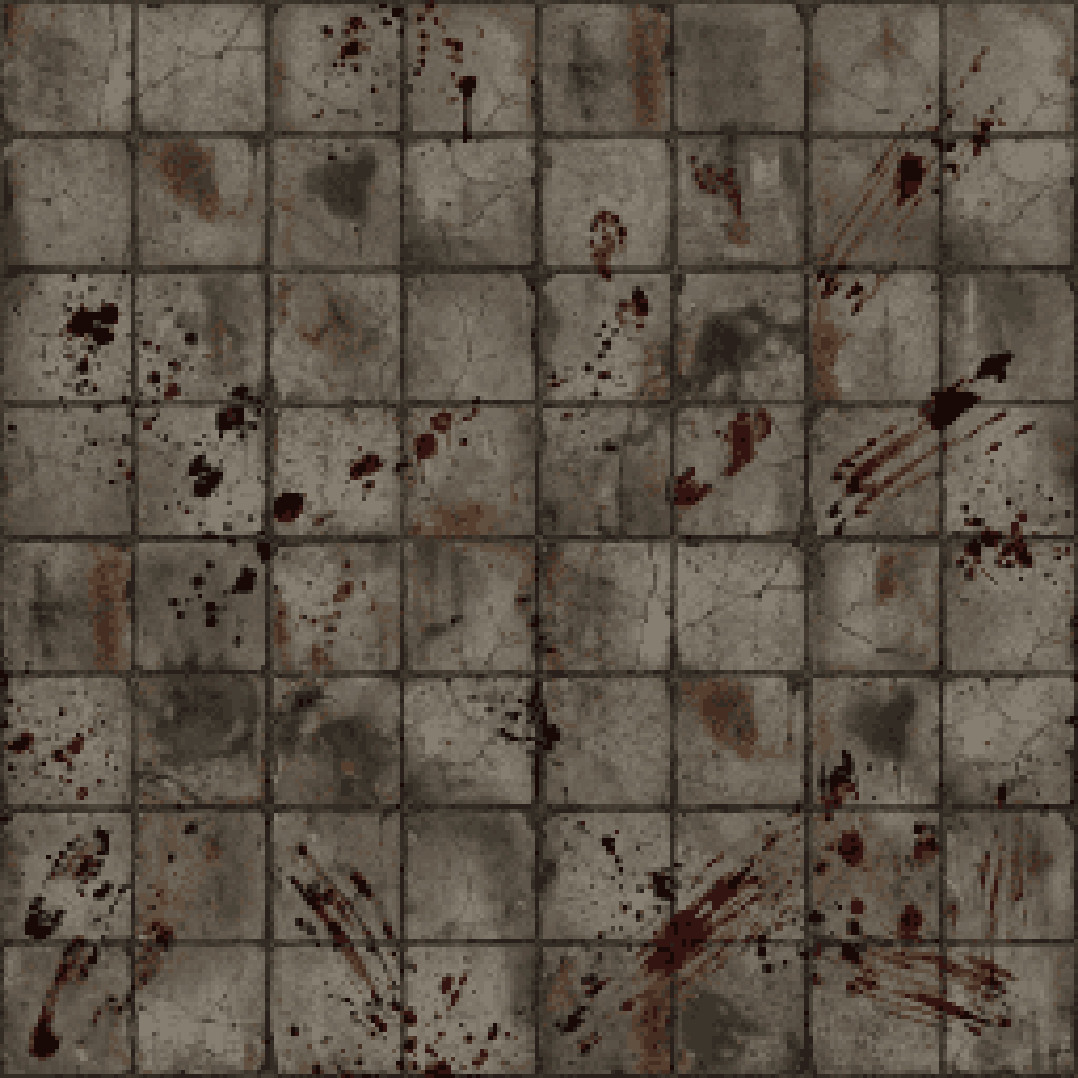
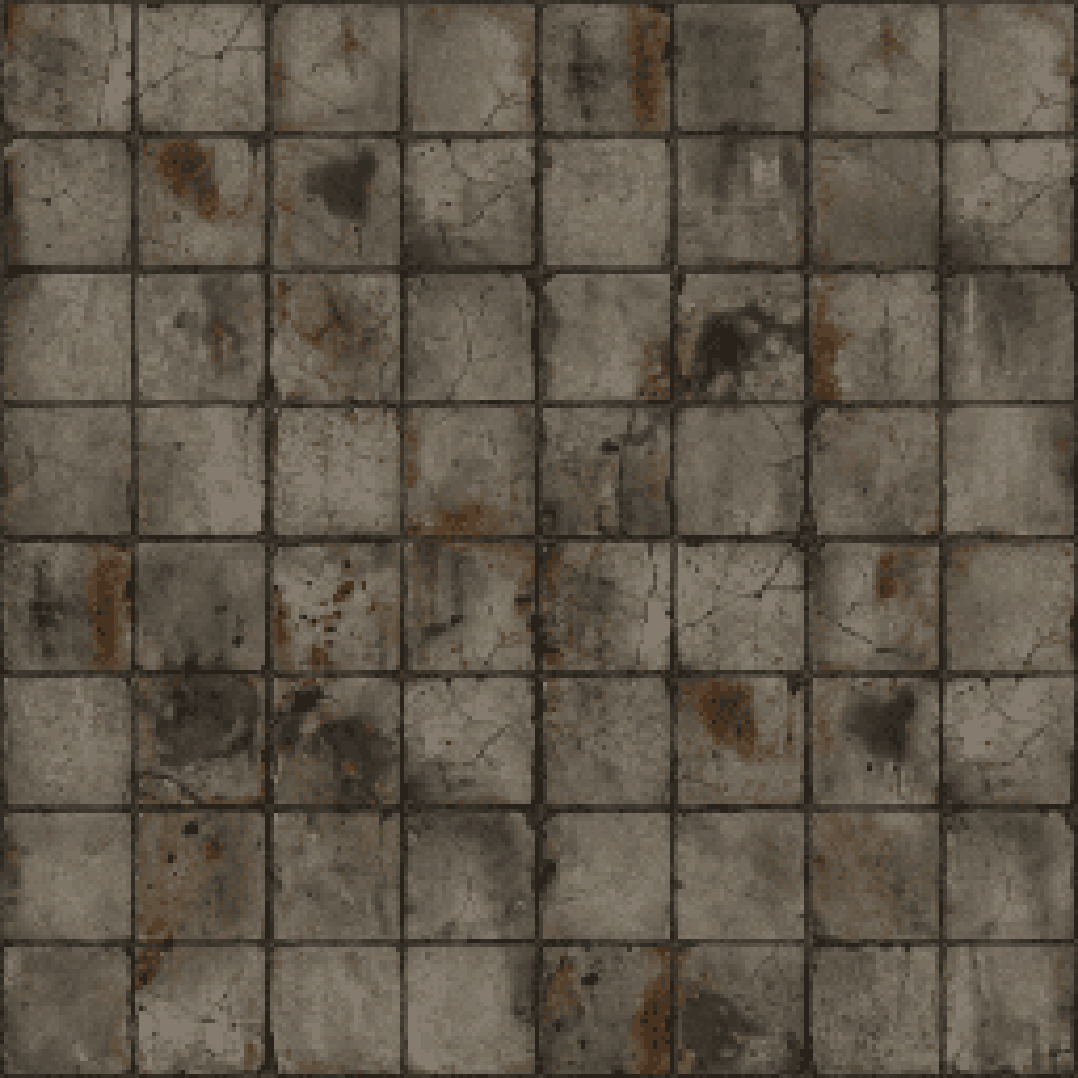
Sala de mantenimiento: suelo sin sangre (se notaba la repetición); se guarda el de sangre para sacar manchas sueltas

diff --git a/docs/FONDOS.md b/docs/FONDOS.md
@@ -30,9 +30,11 @@ obligatorios (fogón en la cocina) y grupos (cama + mesillas). **Los muebles, su
   oliva con friso y beige con friso de madera; dormitorio: lila a rayas, beige con rombos y azul con friso blanco. Originales en
   `assets/sources/suelos/<estancia>-pared-<a|b|c>.png`; se recortan con `py tools/textura_pared.py <img> cocina-a 24 1114 492 748 475 492`
   (los 17 píxeles de arriba son la moldura). `SKIN=-a,-b node tools/foto-sala.mjs sala.png 0 0 cocina` fotografía una sala con esa pareja.
-- Mantenimiento (18 oct, **pendiente de visto bueno**): el damero se cambió por hormigón agrietado con sangre (Gemini), 8 × 8
-  baldosas. Original en `assets/sources/suelos/mantenimiento-suelo.png` (y `-recorte.png`, sin el margen transparente);
-  `py tools/textura_suelo.py <recorte> mantenimiento 8`. Lo usan también las salas de exposición de `?pruebas`.
+- Mantenimiento (18 oct, **pendiente de visto bueno**): el damero se cambió por hormigón agrietado **sin sangre** (Gemini), 8 × 8
+  baldosas: con sangre se notaba mucho la repetición, así que la sangre irá como manchas sueltas que reparte el juego.
+  Original en `assets/sources/suelos/mantenimiento-suelo.png` (y `-recorte.png`, sin el margen transparente);
+  `py tools/textura_suelo.py <recorte> mantenimiento 8`. La versión con sangre (`mantenimiento-suelo-sangre*.png`) es
+  el mismo suelo con manchas: restando una de otra salen las manchas sueltas. Lo usan también las salas de exposición de `?pruebas`.
 - Pasillo (17 oct, con visto bueno): **moqueta** burdeos y mostaza con octógonos y una **alfombra** roja de borde
   mostaza en medio. El dueño las genera realistas y las pixela con tezumie.github.io (tamaño de píxel 4, con su
   paleta). Originales en `assets/sources/suelos/pasillo-moqueta.png` y `pasillo-alfombra.png`.
